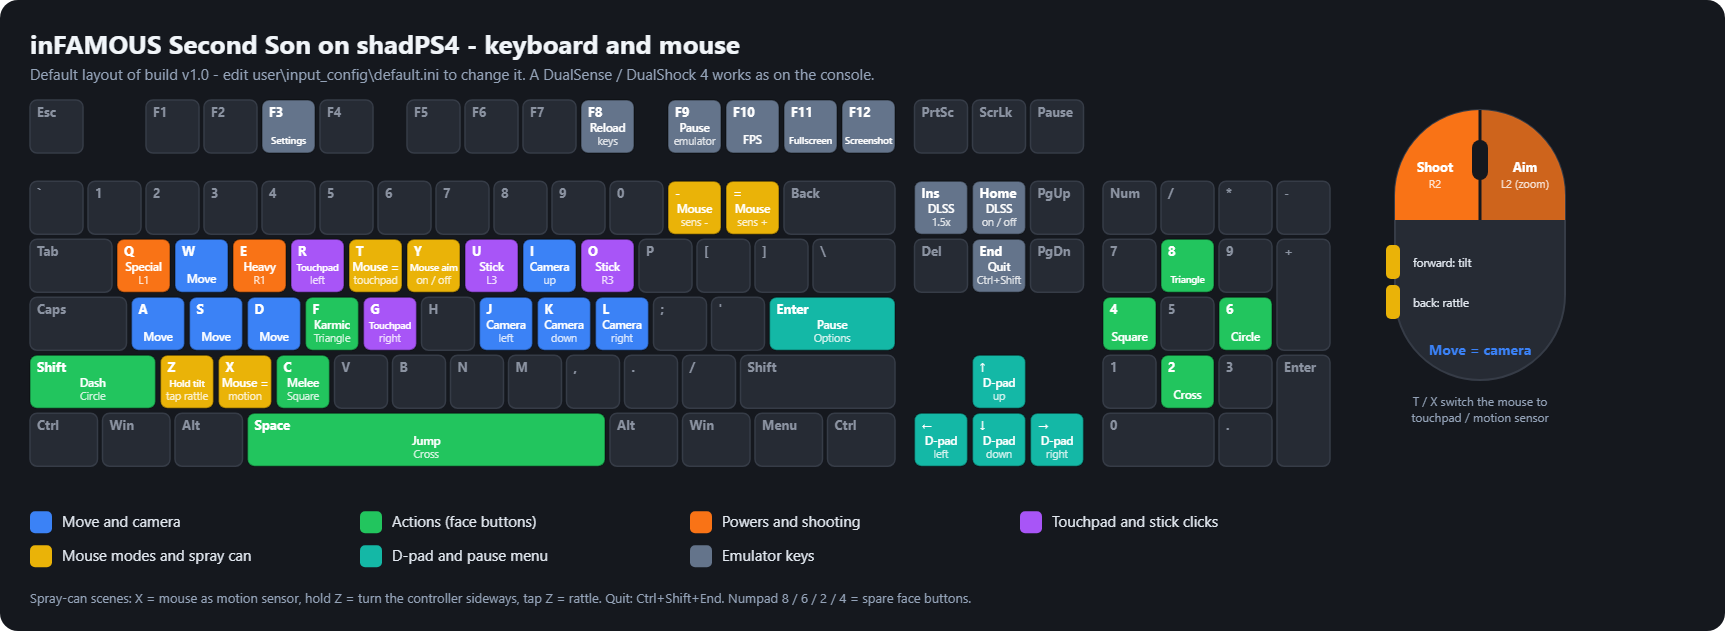
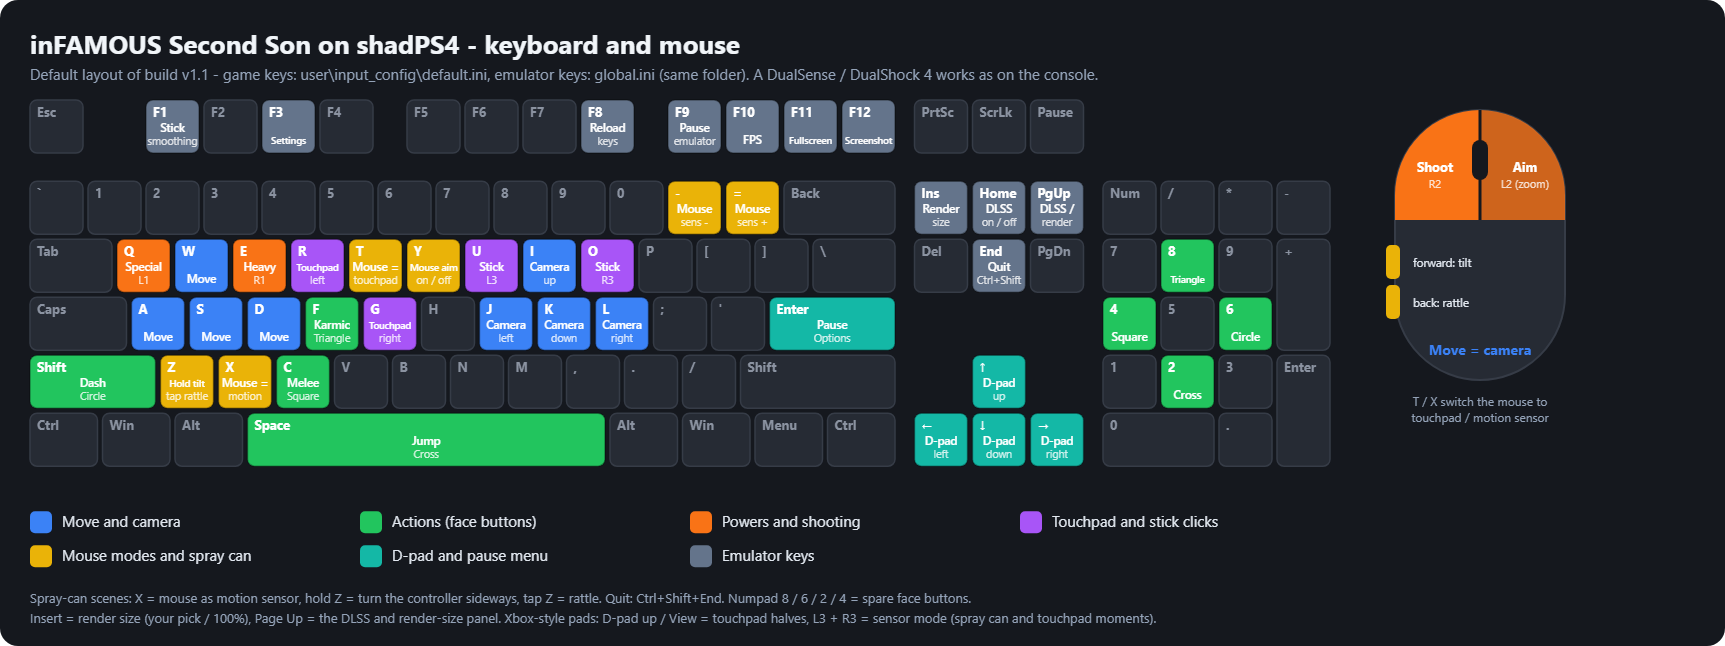
Front page for v1.1: Features overview, FAQ (dropdowns), link bar, test PC specs, the 1.1 keyboard and mouse picture, developer notes folded

diff --git a/.github/README.md b/.github/README.md
@@ -11,7 +11,7 @@ GitHub shows .github/README.md before the root README.md, so upstream's README.m
 # inFAMOUS Second Son on PC
 
 **A build of the [shadPS4](https://github.com/shadps4-emu/shadPS4) PlayStation 4 emulator, tuned for one game.**<br>
-High frame rates, DLSS, real mouse aiming and a full keyboard layout, on Windows.
+High frame rates, DLSS, native 4K and ultrawide, real mouse aiming and a full keyboard layout, on Windows.
 
 [![Latest build](https://img.shields.io/github/v/release/axylpup/shadPS4?label=latest%20build&style=for-the-badge)](https://github.com/axylpup/shadPS4/releases/latest)
 [![Downloads](https://img.shields.io/github/downloads/axylpup/shadPS4/total?style=for-the-badge)](https://github.com/axylpup/shadPS4/releases)
@@ -19,6 +19,8 @@ High frame rates, DLSS, real mouse aiming and a full keyboard layout, on Windows
 ### [Download the latest build](https://github.com/axylpup/shadPS4/releases/latest)
 
 Windows 10 / 11, one zip of about 75 MB. **You need your own copy of the game** - no game files are included.
+
+**[Features](#features) · [Getting started](#getting-started) · [FAQ](#faq) · [Controls](#keyboard-and-mouse) · [DLSS](#dlss-optional) · [Known issues](#known-issues)**
 
 ![Delsin on a rooftop in Seattle, 131 FPS on the test PC](media/city-rooftop.jpg)
 
@@ -30,22 +32,54 @@ Windows 10 / 11, one zip of about 75 MB. **You need your own copy of the game** 
 > shadPS4 team. Tested with the EU version (CUSA00004, update 1.07); the US version (CUSA00223) gets the same
 > settings - reports welcome.
 
-## Highlights
+**New in 1.1:** any screen shape (ultrawide 21:9 / 32:9, 16:10, 4:3), the render size as a percentage of your screen
+changed live, native 4K, sharper DLSS without the wobble, no more stripes in street reflections, even motion on
+screens without G-Sync / FreeSync, a Quick settings tab, and the loading screen tells you when a new version is out.
+[All changes](https://github.com/axylpup/shadPS4/releases/latest).
 
-- **High frame rates:** on the test PC the open-world city benchmark runs at about 140 FPS (1% lows about 134) and
-  the heaviest rooftop view at about 110 FPS (your screen shows at most its refresh rate). **One PC only** - as a very
-  rough guide, the same PC limited to fewer CPU cores gave about 95 FPS (6 cores), 60 FPS (4 cores / 8 threads) and
-  44 FPS (4 small efficiency cores). Treat these as estimates.
-- **DLSS 4.5 (NVIDIA RTX):** upscales the game's 1080p to your 1440p / 4K screen (DLAA on 1080p screens), the HUD
-  stays sharp. Bring your own NVIDIA files - 2 minutes, see below.
-- **Real 1:1 mouse aiming** - the mouse moves the camera directly; left click shoots, right click aims.
-- **Full keyboard + mouse layout**, including the spray-can (motion sensor) and touchpad parts.
-- **Keyboard / mouse button icons** in the game's prompts - they switch to PlayStation buttons when you pick up a
-  controller.
-- **Fixes:** settings stay after a restart, the Load menu's "No" works, TVs in the city play, unplugging a controller
-  hands control to the keyboard, controller-speaker sounds (ringtone, rattle) turned down to 25%.
-- **Shader cache included** with a progress screen on the first start - far less first-time stutter.
-- Sharper water reflections.
+## Features
+
+Everything below is in the download, set up for this game - no tweaking needed.
+
+### Speed
+
+| Feature | What you get |
+|---|---|
+| **High frame rates** | A multithreaded renderer and faster memory handling, frame rate unlocked. On the test PC the open-world city runs at about 140 FPS (1% lows about 134) and the heaviest rooftop view at about 110 FPS (measured with 1.0; 1.1 runs the same within 2%). One PC only - see the release notes for rough numbers on smaller CPUs. |
+| **Render size, live** | 10-200% of your screen with a slider or a number (Page Up), DLSS presets 33 / 50 / 58 / 67 / 100%. Lower = faster on weaker cards, higher = sharper. No restart. Works on every graphics card. |
+| **Tunes itself to your PC** | CPUs with fewer threads get a better thread setup; cards under 10 GB and PCs under 24 GB of RAM use less memory, by themselves. |
+| **Shader cache included** | Shaders are prepared once on the first start, with a progress screen - far less first-time stutter. |
+| **Performance mode** | Optional: the game's own lower settings for weak PCs (+13% / +19% FPS in our heaviest view). |
+
+### Picture
+
+| Feature | What you get |
+|---|---|
+| **DLSS 4.5 (NVIDIA RTX)** | Upscaling or DLAA with a sharp HUD, 8-64 sub-pixel positions for smoother edges, with the game's motion data corrected so characters do not wobble. Bring your own NVIDIA files (2 minutes). |
+| **Any screen shape** | Ultrawide 21:9 and 32:9, 16:10, 4:3, even square - wider screens see more, nothing is stretched; the HUD stays in a 16:9 area. |
+| **Native 4K** | Renders 3840x2160 (the game's light lists are enlarged for it; before, the game crashed above 3200x1800). |
+| **Graphics fixes** | Lighting, smoke / foam / leaf flicker and hair fixed; no stripes in street reflections at low render sizes; TVs in the city play their video; sharper water reflections. |
+| **Even motion without VRR** | V-Sync "half refresh": every picture shown for exactly two refreshes (72 FPS on 144 Hz, 120 on 240 Hz) - smooth on screens without G-Sync / FreeSync. Frame-rate cap included. |
+
+### Controls
+
+| Feature | What you get |
+|---|---|
+| **Real 1:1 mouse aiming** | The mouse turns the camera directly, like a PC game; left click shoots, right click aims. Speed with `-` / `=`, remembered. |
+| **Full keyboard + mouse layout** | Every move, including the spray-can (motion sensor) and touchpad moments. Picture below. |
+| **Keyboard / mouse icons in the game** | Button prompts show your keys; pick up a controller and they switch back to PlayStation buttons. |
+| **Any controller** | DualSense / DualShock 4 as on the console; Xbox and other pads get a sensor mode (L3 + R3) and touchpad buttons. Stick deadzone setting. |
+| **Every key can be changed** | Including the emulator's own keys (DLSS, panels, mouse speed) - handy on laptops. |
+
+### Comfort
+
+| Feature | What you get |
+|---|---|
+| **Quick settings tab (F3)** | Display mode, V-Sync, frame-rate cap, volume, deadzones and language in one place, applied right away; the menu fits any window. |
+| **Remembers your setup** | Fullscreen, mouse speed, render size and the game's own settings stay after a restart; the Load menu's "No" works. |
+| **Update check** | The loading screen shows the newest version every start and says so in green when an update is out. Nothing is downloaded. |
+| **Easy updates** | Unzip the new version over the old folder - saves, settings, keys and DLSS files stay. |
+| **Fixes for more PCs** | 8 GB cards (NVIDIA and AMD) load without running out of memory, AMD RX 5000 shader crash fixed, laptops start on the real graphics card, folders with non-English letters work, clear crash reports (`fatal.txt`). |
 
 ![The forest fire, 119 FPS on the test PC](media/forest-fire.jpg)
 
@@ -57,11 +91,113 @@ Windows 10 / 11, one zip of about 75 MB. **You need your own copy of the game** 
 3. The first start prepares shaders (one time, with a progress screen). Then play.
 
 A DualSense / DualShock 4 works as on the console. All keys, the special sections (T = touchpad, X = motion sensor),
-changing settings and troubleshooting are in the README inside the zip; `shadps4-flags-user-EXAMPLES.txt` lists the
+changing settings and more questions are in the README inside the zip (and in the [FAQ](#faq) below); `shadps4-flags-user-EXAMPLES.txt` lists the
 settings players usually want.
 
 **Updating:** unzip the new version over your old folder and replace the files. Saves, settings, keys, DLSS files and
 your own `shadps4-flags-user.txt` stay. The first start prepares shaders once more.
+
+## FAQ
+
+Click a question to open it. Lines like `SHADPS4_...=...` go into `shadps4-flags-user.txt` next to `shadPS4.exe`
+(create it if it is not there; restart the game after editing). The README inside the zip has more.
+
+<details>
+<summary><b>How do I bring my saves over?</b></summary>
+
+1. Close the game.
+2. Find your old saves: other shadPS4 installs keep them in `%APPDATA%\shadPS4\home\1000\savedata\CUSA00004\` (paste
+   that into the Explorer address bar), older shadPS4 versions in `user\savedata\1\CUSA00004\`. Each save is a folder
+   like `infamousssAuto0`.
+3. Copy those folders into `user\home\1000\savedata\CUSA00004\` next to this build's `shadPS4.exe` (start the game
+   once so the folders exist, or create them).
+4. US version: `CUSA00223` instead of `CUSA00004`.
+
+Updating this build keeps your saves - nothing to copy. Saves from a PS4 itself are encrypted; only saves decrypted
+with homebrew save tools can be copied the same way (untested).
+</details>
+
+<details>
+<summary><b>How do I change the language?</b></summary>
+
+**F3 -> Quick -> Language**, Save, restart the game. Text and voices change together. The game has only the languages
+of your copy; if it stays in English, try the other variant (for example Spanish (Spain) / Spanish (Latin America)).
+</details>
+
+<details>
+<summary><b>Motion stutters although the FPS is high (no G-Sync / FreeSync)</b></summary>
+
+A normal screen shows a new picture only at each refresh, so at, say, 100 FPS on 144 Hz some pictures stay one
+refresh and some two - motion jitters. **F3 -> Quick -> V-Sync -> Fifo (half refresh)**, Save: every picture stays
+exactly two refreshes (72 FPS on 144 Hz, 60 on 120 Hz, 120 on 240 Hz). If your PC holds your full refresh rate, plain
+**Fifo** is smoother still. Applies right away. With G-Sync / FreeSync none of this is needed.
+</details>
+
+<details>
+<summary><b>How do I make it run faster?</b></summary>
+
+Lower the render size: **Page Up** -> Render size, for example 67% or 50% (DLSS on RTX cards, or the normal scaler on
+any card, brings it back up to your screen). It changes live. Weaker PCs can also try `SHADPS4_PERF_MODE=low` (the
+game's own lower settings).
+</details>
+
+<details>
+<summary><b>How do I play fullscreen? Ultrawide?</b></summary>
+
+**F11** (or F3 -> Quick -> Display Mode) - remembered for the next start. Ultrawide and other screen shapes are filled
+by themselves; restart the game after resizing the window. The HUD stays in a 16:9 area in the middle
+(`SHADPS4_HUD=full` moves it to the edges); video cutscenes keep black bars.
+</details>
+
+<details>
+<summary><b>The frame rate stops at my monitor's refresh rate</b></summary>
+
+Your graphics driver has no "Mailbox" mode (AMD on Windows, some Intel and laptop drivers), so the game uses V-Sync.
+For an uncapped frame rate: **F3 -> Quick -> V-Sync -> Immediate** (can tear without FreeSync / G-Sync).
+</details>
+
+<details>
+<summary><b>Mouse too fast / stuck to the camera? Changing keys?</b></summary>
+
+**-** / **=** change the mouse speed (kept). **Y** turns mouse aiming off, **F3** frees the mouse while open. Keys:
+`user\input_config\default.ini` (game) and `global.ini` (emulator keys), then **F8** in game to reload.
+</details>
+
+<details>
+<summary><b>Xbox or other controller without a touchpad / motion sensor?</b></summary>
+
+Press **L3 + R3** (both sticks) for the spray-can and touchpad moments: the right stick aims the can, hold **A** to
+tilt, tap **A** to shake; the left stick is your finger on the touchpad. **D-pad up** / **View** are the touchpad
+halves. Sticks drifting? **F3 -> Quick -> Stick Deadzone**.
+</details>
+
+<details>
+<summary><b>DLSS does not turn on</b></summary>
+
+Check the five files (see [DLSS](#dlss-optional)): exactly Streamline **2.14.16**, from `bin\x64` (not
+`development`), and an NVIDIA RTX card. `user\log\shad_log.txt` says why - search it for `DLSS:`.
+</details>
+
+<details>
+<summary><b>The first start takes long / it asks for the game folder again</b></summary>
+
+The first start prepares shaders once (a few minutes, with a progress screen) - leave it running. To pick another
+game folder, delete `shadps4-game.txt` next to `shadPS4.exe` and choose the folder that contains `eboot.bin`.
+</details>
+
+<details>
+<summary><b>Crashes, wrong textures or out of video memory (AMD, Intel, older cards)</b></summary>
+
+Put `SHADPS4_A2=0` into `shadps4-flags-user.txt` (the multithreaded renderer off - slower, but closest to standard
+shadPS4), then [open an issue](https://github.com/axylpup/shadPS4/issues/new/choose) with your logs.
+</details>
+
+<details>
+<summary><b>Does it go online?</b></summary>
+
+Only for the update check: one small request to GitHub per start, shown on the loading screen. Nothing is downloaded.
+`SHADPS4_UPDATE_CHECK=0` turns it off.
+</details>
 
 ## Keyboard and mouse
 
@@ -75,18 +211,31 @@ NVIDIA's files are not included (licence). Download **Streamline SDK 2.14.16** f
 
 `sl.interposer.dll`, `sl.common.dll`, `sl.dlss.dll`, `sl.pcl.dll`, `nvngx_dlss.dll`
 
-Start the game: DLSS turns on by itself. **Home** switches it on / off to compare. Without the files the game uses
-its own anti-aliasing.
+Start the game: DLSS turns on by itself. **Home** switches it on / off to compare, **Page Up** opens the DLSS panel
+(render size, network, status). Without the files the game uses its own anti-aliasing.
 
 ## Requirements
 
-- Windows 10 / 11 64-bit, a Vulkan 1.3 graphics card (12 GB video memory recommended; 8 GB runs since 1.0.2), a fast
-  6+ core CPU.
+- Windows 10 / 11 64-bit, a Vulkan 1.3 graphics card (12 GB video memory recommended; 8 GB runs since 1.0.2, smaller
+  cards can lower the render size), a fast 6+ core CPU.
 - DLSS: an NVIDIA RTX card (20 series or newer) and a recent driver.
-- Tested only on Windows 11 + RTX 4070 Ti SUPER + i5-13600K. Other hardware should work (every new feature has a
-  fallback) but is untested - reports welcome.
+- Other hardware should work (every new feature has a fallback) but only the test PC below is tested - reports
+  welcome.
+
+**The test PC** - every number on this page comes from it:
+
+| Part | Model |
+|---|---|
+| CPU | Intel Core i5-13600K (6 performance + 8 efficiency cores, 20 threads) |
+| Graphics card | NVIDIA GeForce RTX 4070 Ti SUPER, 16 GB, driver 617.14 |
+| RAM | 32 GB DDR5 (2 x 16 GB, running at 4800 MT/s) |
+| Storage | WD_BLACK SN850X 4 TB NVMe (game files); Windows on a WD_BLACK SN770 1 TB NVMe |
+| Screen | MSI MPG 271QRX, 27" QD-OLED, 2560x1440, set to 240 Hz, G-Sync |
+| Windows | Windows 11 Home |
 
 ## Known issues
+
+Real bugs that are not fixed yet (stutter, language, saves and other questions with a quick fix: [FAQ](#faq)).
 
 - Touchpad prompts and the controller picture in the Options screen still show the PlayStation controller.
 - A few particle effects (smoke, fire) can flicker in places.
@@ -106,19 +255,24 @@ for this build only - problems with other games or the official shadPS4 builds b
 
 ## This repository
 
+<details>
+<summary>For developers: branches, tags and building</summary>
+
 - **`second-son`** (this branch) - the source of the builds: shadPS4 0.17 (upstream `main` of 2026-08-08) plus our
-  commits. Each release has a tag (`second-son-v1.0.2`, ...) pointing at the exact source of its zip.
+  commits. Each release has a tag (`second-son-v1.1`, ...) pointing at the exact source of its zip.
 - **`main`** - upstream shadPS4, unchanged.
 - Building: follow shadPS4's
   [Windows build guide](https://github.com/axylpup/shadPS4/blob/second-son/documents/building-windows.md). Release
   builds use the profile-guided optimisation data in [`pgo/`](https://github.com/axylpup/shadPS4/tree/second-son/pgo).
+
+</details>
 
 ## How this was made
 
 This build was made with AI. I'm a 3D artist, not a programmer: I directed the project - set the goals, chose what to
 work on, played and tested every build, judged what looked and felt right, and made the release calls. The code, the
 tests and measurements and most of the documentation were written by AI models: most of it by Anthropic's Claude Opus
-5.5, earlier parts by other Claude models and by OpenAI's GPT models. Announcement images are made with ChatGPT. All of
+5.5, earlier parts by other Claude models and by OpenAI's GPT models. Announcement images were made with ChatGPT (1.0 - 1.0.2) and Claude (1.1). All of
 it stands on shadPS4, written by its team and contributors over years.
 
 ## Credits and licence
